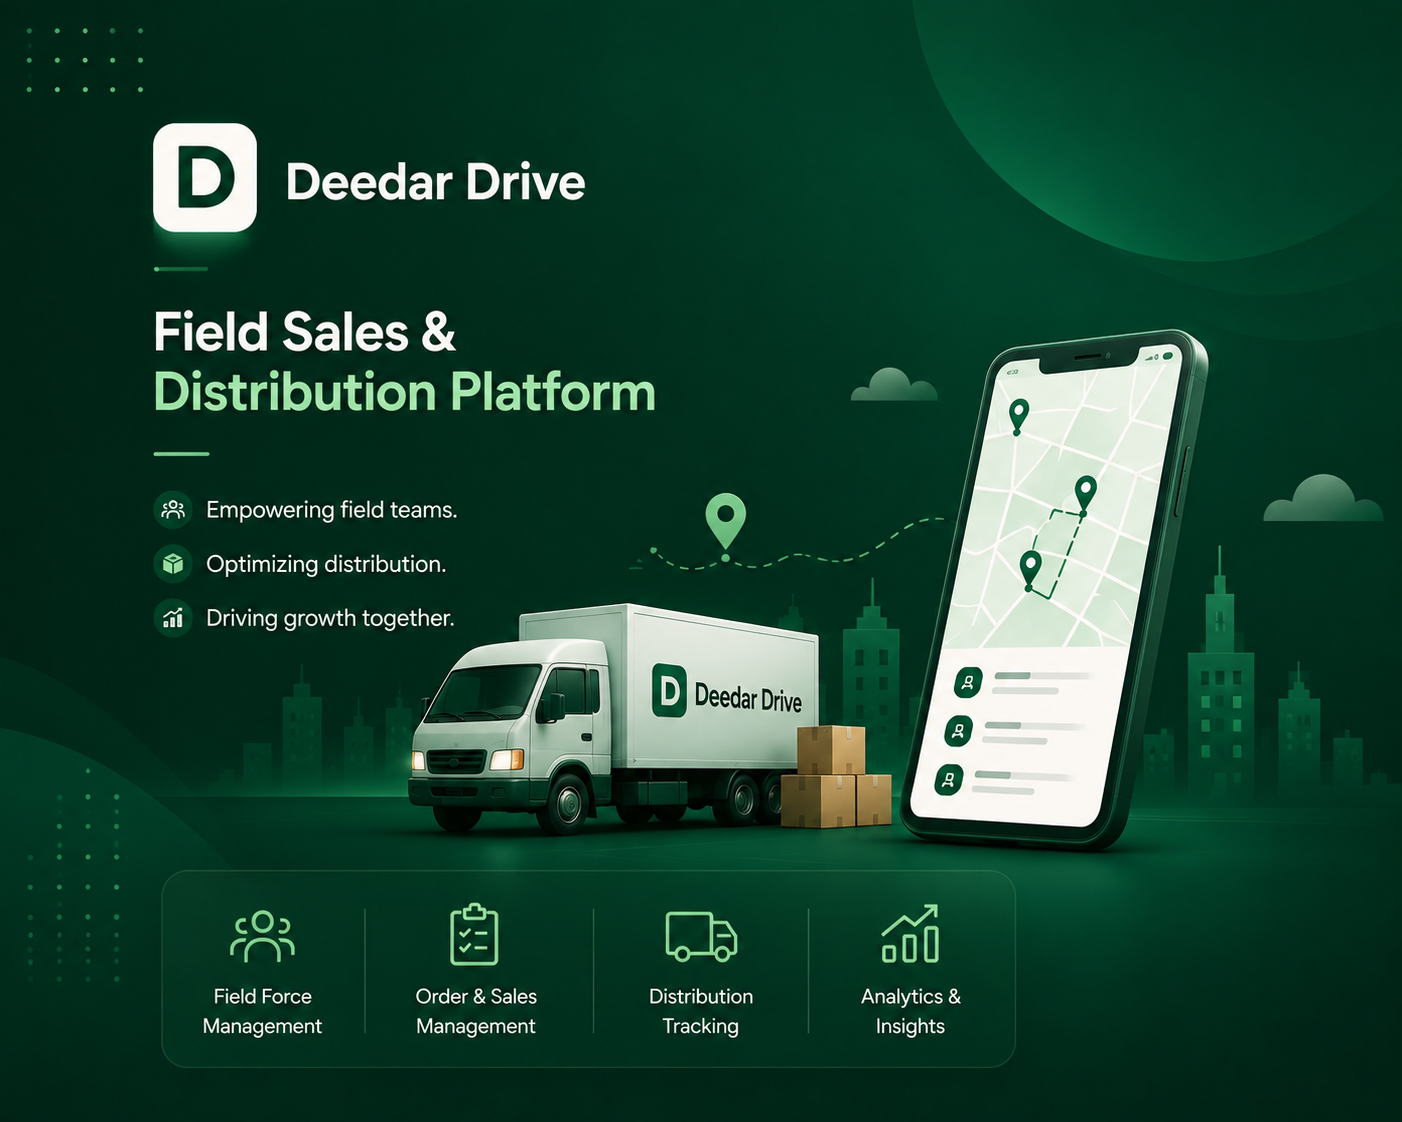
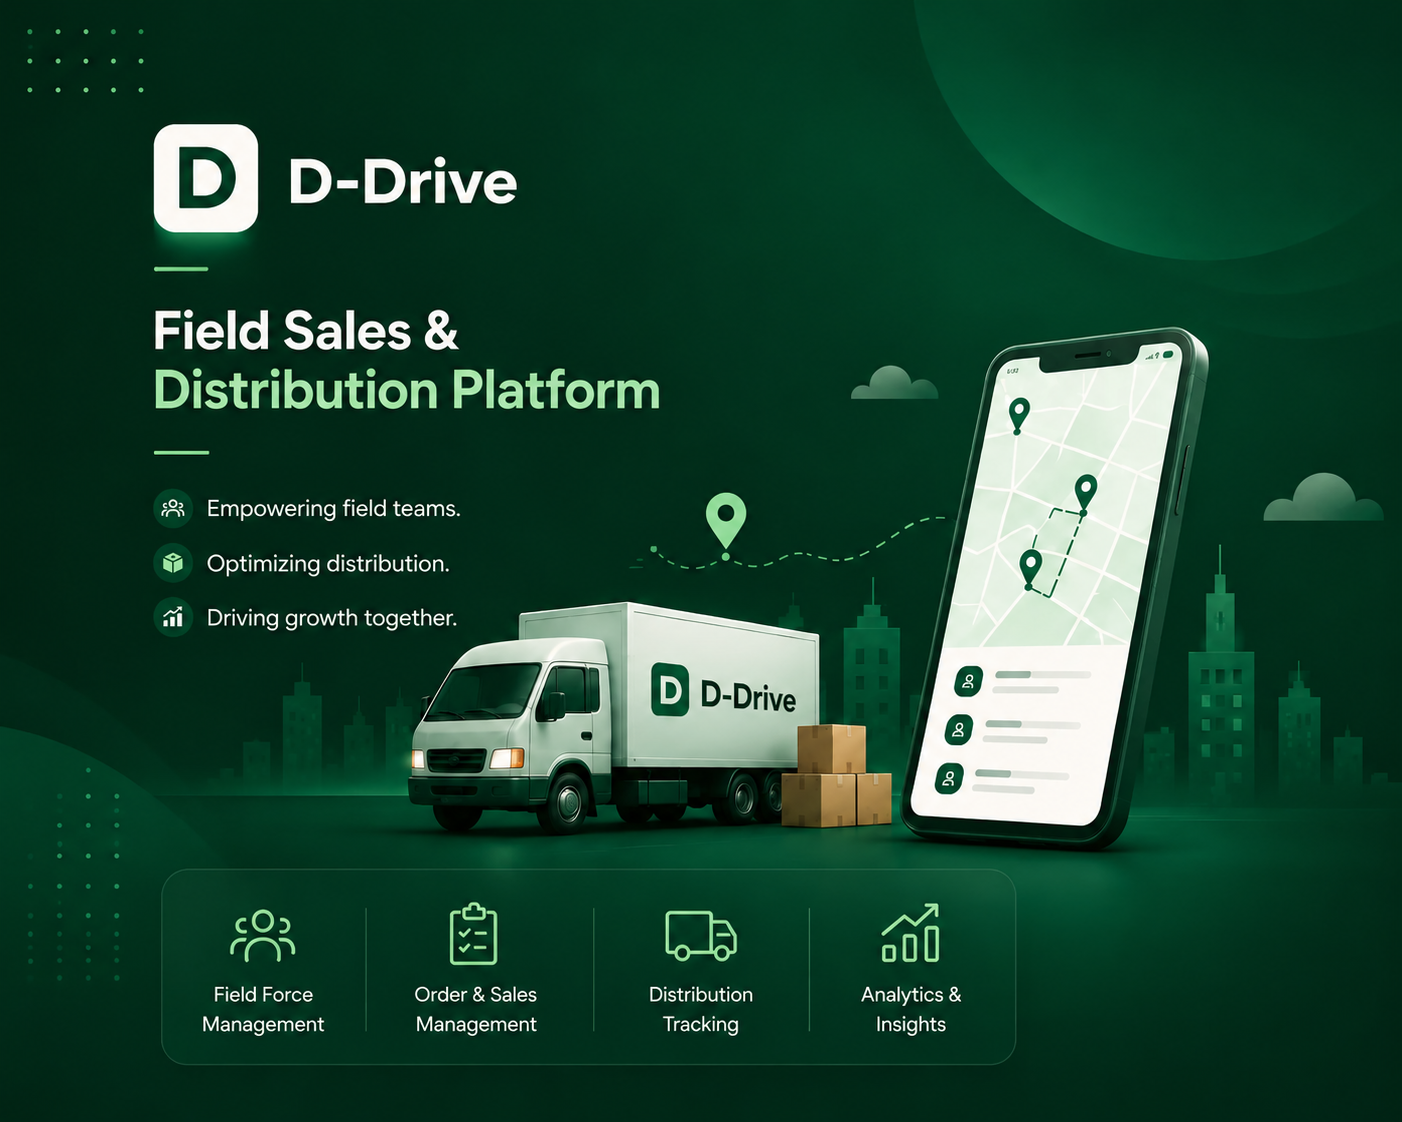
d-drive

diff --git a/src/lib/i18n/dictionary.ts b/src/lib/i18n/dictionary.ts
@@ -6,14 +6,14 @@ import type { Lang } from "./config";
 const HI: Record<string, string> = {
   // ── Auth: login ──
   "WELCOME BACK": "वापसी पर स्वागत है",
-  "Login to continue to Deedar Drive": "जारी रखने के लिए Deedar Drive में लॉगिन करें",
+  "Login to continue to D-Drive": "जारी रखने के लिए D-Drive में लॉगिन करें",
   "Phone number": "मोबाइल नंबर",
   Password: "पासवर्ड",
   "Remember me": "मुझे याद रखें",
   "Forgot password?": "पासवर्ड भूल गए?",
   Login: "लॉगिन",
   "Logging in…": "लॉगिन हो रहा है…",
-  "New to Deedar Drive?": "Deedar Drive पर नए हैं?",
+  "New to D-Drive?": "D-Drive पर नए हैं?",
   "Request Access": "एक्सेस का अनुरोध करें",
   "Something went wrong.": "कुछ गड़बड़ हो गई।",
   "Could not reach the server. Please try again.": "सर्वर से संपर्क नहीं हो सका। कृपया पुनः प्रयास करें।",

diff --git a/src/app/login/page.tsx b/src/app/login/page.tsx
@@ -56,7 +56,7 @@ export default function LoginPage() {
       <div className="relative hidden md:block md:w-[60%]">
         <Image
           src="/login-hero.png"
-          alt="Deedar Drive — Field Sales & Distribution Platform"
+          alt="D-Drive — Field Sales & Distribution Platform"
           fill
           priority
           className="object-cover"
@@ -81,7 +81,7 @@ export default function LoginPage() {
               {t("WELCOME BACK")}
             </span>
             <p className="mt-2 text-sm text-zinc-500">
-              {t("Login to continue to Deedar Drive")}
+              {t("Login to continue to D-Drive")}
             </p>
           </div>
 
@@ -158,7 +158,7 @@ export default function LoginPage() {
           <div className="my-4 h-px w-full bg-zinc-100" />
 
           <p className="text-center text-sm text-zinc-500">
-            {t("New to Deedar Drive?")}{" "}
+            {t("New to D-Drive?")}{" "}
             <Link href="/signup" className="font-semibold text-emerald-700 hover:text-emerald-800">
               {t("Request Access")}
             </Link>

diff --git a/src/lib/portal/nav.ts b/src/lib/portal/nav.ts
@@ -348,13 +348,13 @@ export function breadcrumbForPath(pathname: string): { section: string; page: st
   const section = NAV_SECTIONS.find((s) => s.role === role);
 
   const best = navItemForPath(pathname);
-  if (best) return { section: section?.title ?? "Deedar Drive", page: best.label };
+  if (best) return { section: section?.title ?? "D-Drive", page: best.label };
 
   const last = pathname.split("/").filter(Boolean).filter((seg) => !isIdSegment(seg)).pop() ?? "";
   const page = last
     ? (SEGMENT_LABEL[last] ?? last.replace(/-/g, " ").replace(/\b\w/g, (c) => c.toUpperCase()))
     : "Dashboard";
-  return { section: section?.title ?? "Deedar Drive", page };
+  return { section: section?.title ?? "D-Drive", page };
 }
 
 /** CSS custom props that recolor a screen's --accent to the role's theme. */

diff --git a/src/app/(portal)/_components/portal-shell.tsx b/src/app/(portal)/_components/portal-shell.tsx
@@ -108,7 +108,7 @@ export function PortalShell({ userName, phone, roleLabel, accessRoles, trackingA
               className="text-[15px] font-bold leading-tight text-white"
               style={{ fontFamily: "var(--font-display)" }}
             >
-              Deedar Drive
+              D-Drive
             </div>
             <div className="text-[10.5px] leading-tight" style={{ color: "rgba(241,247,242,.5)" }}>
               {t("Distribution Portal")}

diff --git a/src/app/signup/page.tsx b/src/app/signup/page.tsx
@@ -42,7 +42,7 @@ export default function SignupPage() {
       <div className="relative hidden md:block md:w-[60%]">
         <Image
           src="/login-hero.png"
-          alt="Deedar Drive — Field Sales & Distribution Platform"
+          alt="D-Drive — Field Sales & Distribution Platform"
           fill
           priority
           className="object-cover"

diff --git a/src/app/globals.css b/src/app/globals.css
@@ -1,7 +1,7 @@
 @import "tailwindcss";
 
 /* ============================================================
-   Deedar Drive — Design System
+   D-Drive — Design System
    Soft lavender-white canvas, cool neutral ink, crisp white
    cards with real shadow/border. Component classes are Tailwind
    (@apply) so every page gets a consistent, professional look

diff --git a/src/app/layout.tsx b/src/app/layout.tsx
@@ -11,7 +11,7 @@ const manrope = Manrope({
 });
 
 export const metadata: Metadata = {
-  title: "Deedar Drive",
+  title: "D-Drive",
   description: "Field Sales & Distribution Platform",
 };
 
